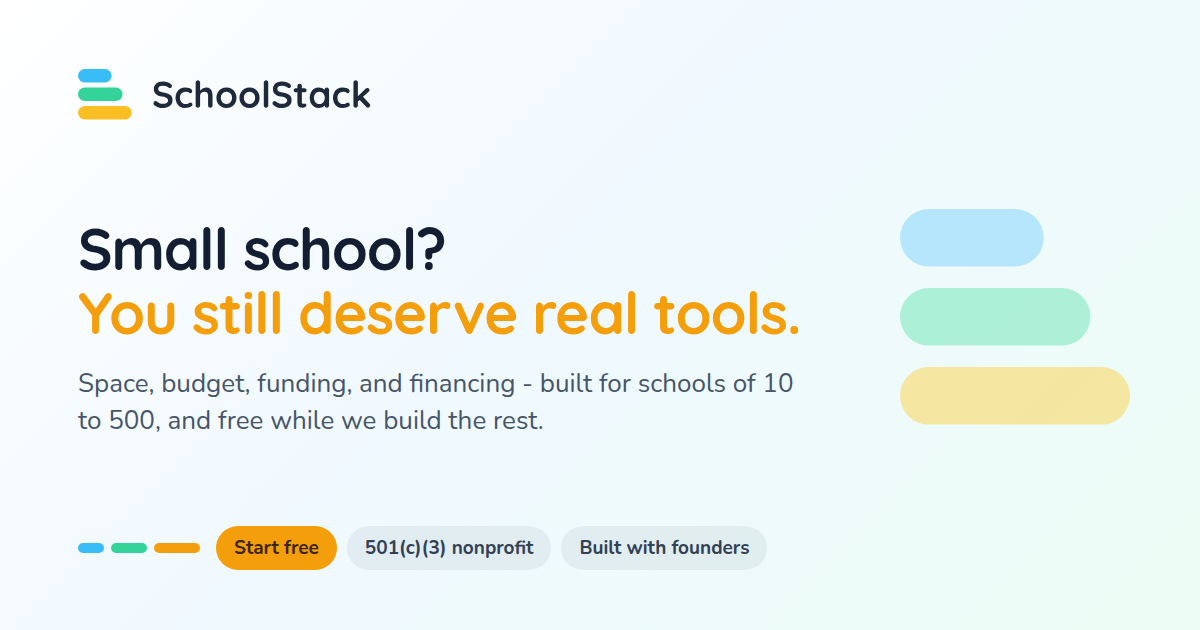
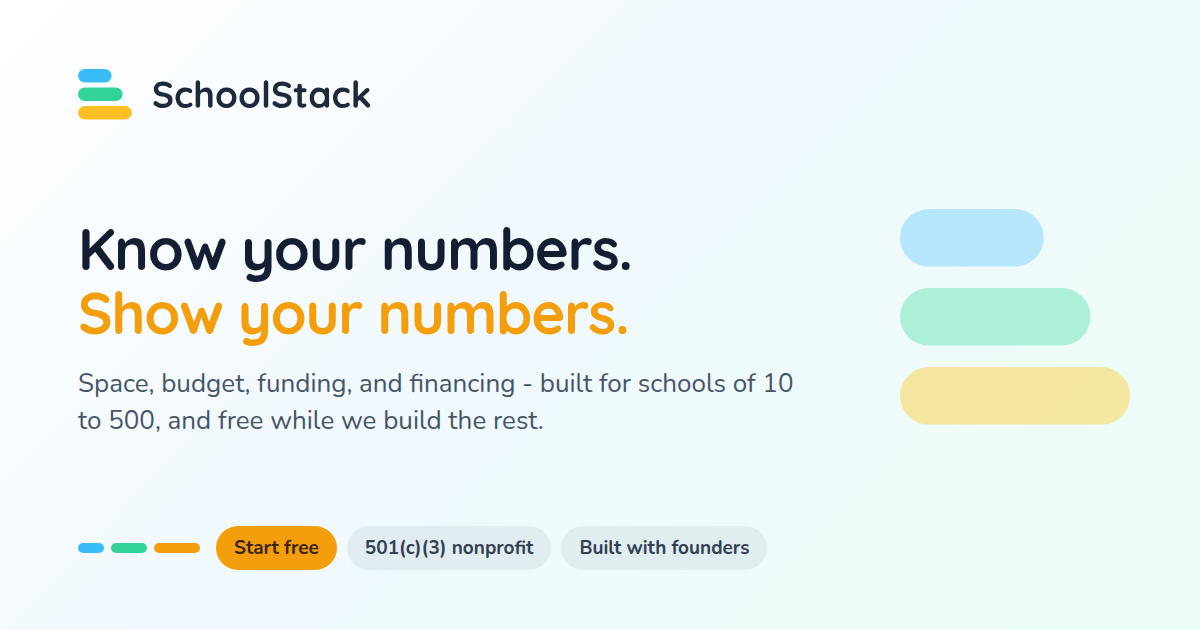
Retire "deserves", and close the ratchet
The word was on the page in eight places and CLAUDE.md section 2 retires it
by name: "deserves" says what the reader is owed rather than the value
delivered. It went in as a ratchet because rewriting the hero was the
owner's call, not a side effect of adding a test. That call has been made.

Each replacement takes the role section 2 already assigns it, rather than
inventing new positioning:

  The campaign line, "Know your numbers. Show your numbers.", now carries
  og:title, twitter:title and the OG card. Section 2 describes it as Informs
  resolving into Badge value, and calls the share text "the text a person
  reads in an iMessage or Slack preview, where the job is to earn the tap".
  That is the job it was written for and it was going unused.

  The h1 takes the positioning line with the lift section 2 asks for. It
  called "The back office small schools run on." honest but bottom-tier, and
  said a replacement reaching Emotional would be stronger. "The back office
  that keeps small schools ready." keeps Organizes and Integrates, adds
  Reduces anxiety and Reduces risk, and ties the hero to the three cards
  below it (when a lender asks, when an accreditor asks, when your board
  asks) and to the "Stay ready." sign-off.

  The hero subtitle loses three negatives with the entitlement. "Small
  doesn't mean you aren't serious" defends against an accusation instead of
  naming a value received.
[…]

Changed region(s): [[0.0617, 0.3619, 0.6783, 0.5429]]

diff --git a/index.html b/index.html
@@ -20,7 +20,7 @@
   <!-- Open Graph. The title and description here are deliberately warmer and
        shorter than the SEO <title> above: this is the text a person reads in an
        iMessage or Slack preview, where the job is to earn the tap. -->
-  <meta property="og:title" content="Small school? You still deserve real tools.">
+  <meta property="og:title" content="Know your numbers. Show your numbers.">
   <meta property="og:description" content="Space, budget, funding, and financing - four free tools for schools of 10 to 500. A program of Building Hope Impact Fund, a 501(c)(3) nonprofit.">
   <meta property="og:type" content="website">
   <meta property="og:url" content="https://schoolstack.ai/">
@@ -30,14 +30,14 @@
   <meta property="og:image:type" content="image/png">
   <meta property="og:image:width" content="1200">
   <meta property="og:image:height" content="630">
-  <meta property="og:image:alt" content="SchoolStack: small school? You still deserve real tools. Space, budget, funding, and financing, free for schools of 10 to 500.">
+  <meta property="og:image:alt" content="SchoolStack: know your numbers, show your numbers. Space, budget, funding, and financing, free for schools of 10 to 500.">
 
   <!-- Twitter / X -->
   <meta name="twitter:card" content="summary_large_image">
-  <meta name="twitter:title" content="Small school? You still deserve real tools.">
+  <meta name="twitter:title" content="Know your numbers. Show your numbers.">
   <meta name="twitter:description" content="Space, budget, funding, and financing - four free tools for schools of 10 to 500. A program of Building Hope Impact Fund, a 501(c)(3) nonprofit.">
   <meta name="twitter:image" content="https://schoolstack.ai/og-image.png">
-  <meta name="twitter:image:alt" content="SchoolStack: small school? You still deserve real tools. Space, budget, funding, and financing, free for schools of 10 to 500.">
+  <meta name="twitter:image:alt" content="SchoolStack: know your numbers, show your numbers. Space, budget, funding, and financing, free for schools of 10 to 500.">
 
   <!-- Self-hosted rather than linked from fonts.googleapis.com: no third party
        in the request path, and no blocking round trip to another origin before
@@ -122,7 +122,7 @@
             "name": "Is my data safe?",
             "acceptedAnswer": {
               "@type": "Answer",
-              "text": "School data deserves real care. We follow FERPA expectations for student information, encrypt sensitive data at rest, and are working toward SOC 2. Ask us for specifics and we will tell you plainly where we are."
+              "text": "We handle school data with real care. We follow FERPA expectations for student information, encrypt sensitive data at rest, and are working toward SOC 2. Ask us for specifics and we will tell you plainly where we are."
             }
           }
         ]
@@ -751,10 +751,10 @@
       <span class="bars" aria-hidden="true"><span></span><span></span><span></span></span>
       Free to use now. SchoolStack BI launches in 2027.
     </div>
-    <h1>The back office platform your school deserves.</h1>
+    <h1>The back office that keeps small schools ready.</h1>
     <p class="subtitle">
-      Small doesn't mean you aren't serious. You deserve tools that match, and that help you
-      <strong>stay ready</strong>, so you aren't scrambling to get ready when opportunity arrives.
+      Know your numbers, and show them. Four free tools keep the picture current, so you
+      <strong>stay ready</strong> for the lender, the accreditor, and the board.
     </p>
     <div class="hero-cta">
       <a href="#signup" class="btn-primary">
@@ -1011,7 +1011,7 @@
       </div>
       <div class="faq-item">
         <h3>Is my data safe?</h3>
-        <p>School data deserves real care. We follow FERPA expectations for student information, encrypt sensitive data at rest, and are working toward SOC 2. Ask us for specifics and we will tell you plainly where we are.</p>
+        <p>We handle school data with real care. We follow FERPA expectations for student information, encrypt sensitive data at rest, and are working toward SOC 2. Ask us for specifics and we will tell you plainly where we are.</p>
       </div>
     </div>
   </section>

diff --git a/tools/og-image.html b/tools/og-image.html
@@ -122,7 +122,7 @@
   </svg>
 
   <div class="content">
-    <h1>Small school?<br><em>You still deserve real tools.</em></h1>
+    <h1>Know your numbers.<br><em>Show your numbers.</em></h1>
     <p class="sub">
       Space, budget, funding, and financing - built for schools of 10 to 500,
       and free while we build the rest.

diff --git a/CLAUDE.md b/CLAUDE.md
@@ -113,11 +113,25 @@ numbers appear.
 remembered to read this file — and they did not hold: "The back office
 platform your school deserves." reached production through two green runs.
 
-One rule is a ratchet rather than a hard failure. `deserves` is on the page in
-eight places, and taking it off is a positioning decision for the owner, not a
-side effect of adding a test. So `KNOWN_DEBT.entitlement` records the count,
-every run prints the remaining lines, and the check fails when the count
-**rises**. Lower it as the copy improves. Never raise it to get a run green.
+`deserves` went in as a ratchet rather than a hard failure, because taking it
+off the page was a positioning decision for the owner rather than a side
+effect of adding a test. `KNOWN_DEBT.entitlement` recorded the count, every
+run printed the remaining lines, and the check failed when the count **rose**.
+
+**That debt is now paid: the count is 0 and the ratchet is a wall.** Any new
+`deserves` fails the run. Never raise `KNOWN_DEBT` to get a run green - the
+mechanism is still there for the next rule that needs to be paid down
+gradually, not for reopening this one.
+
+The lines that replaced it follow the role each one is given above: the
+campaign line carries the share card, and the hero takes the positioning line
+with the Emotional lift this section asks for.
+
+| Surface | Reads |
+| --- | --- |
+| `<h1>` | The back office that keeps small schools ready. |
+| Hero subtitle | Know your numbers, and show them ... so you **stay ready** for the lender, the accreditor, and the board. |
+| `og:title`, `twitter:title`, OG card | Know your numbers. Show your numbers. |
 
 ## 3. Checks — run these, they have each caught a real bug
 
